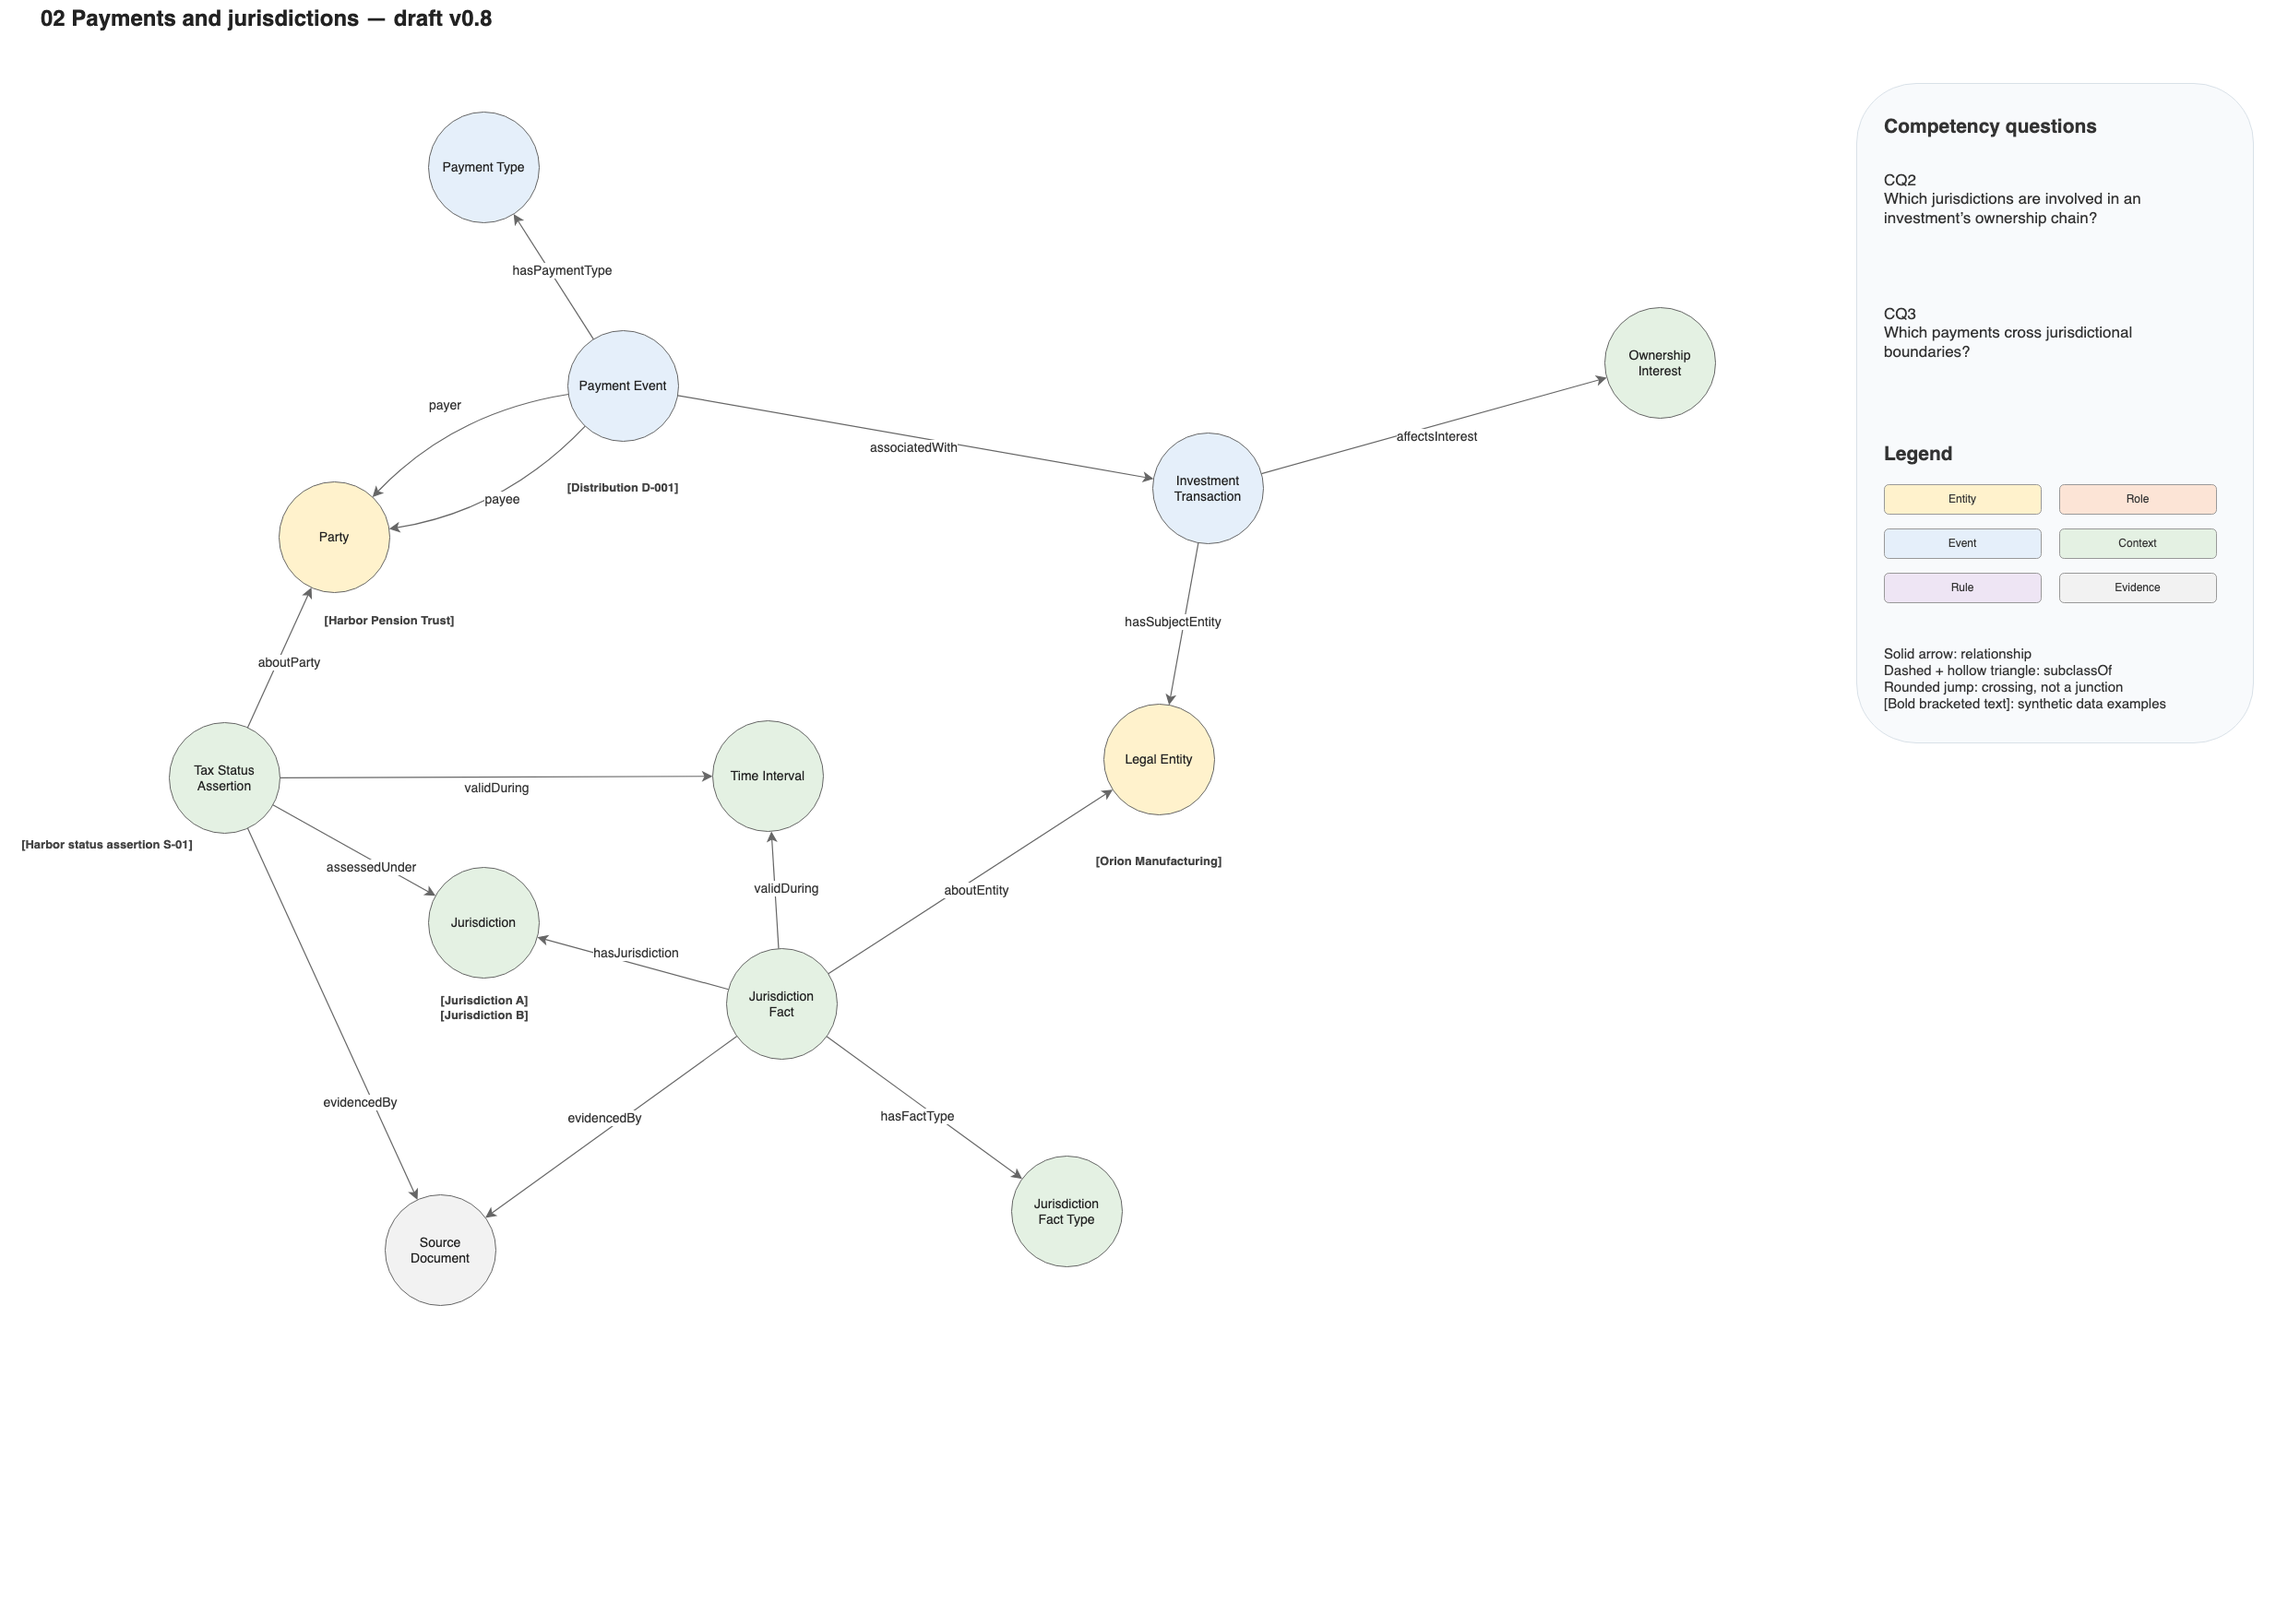
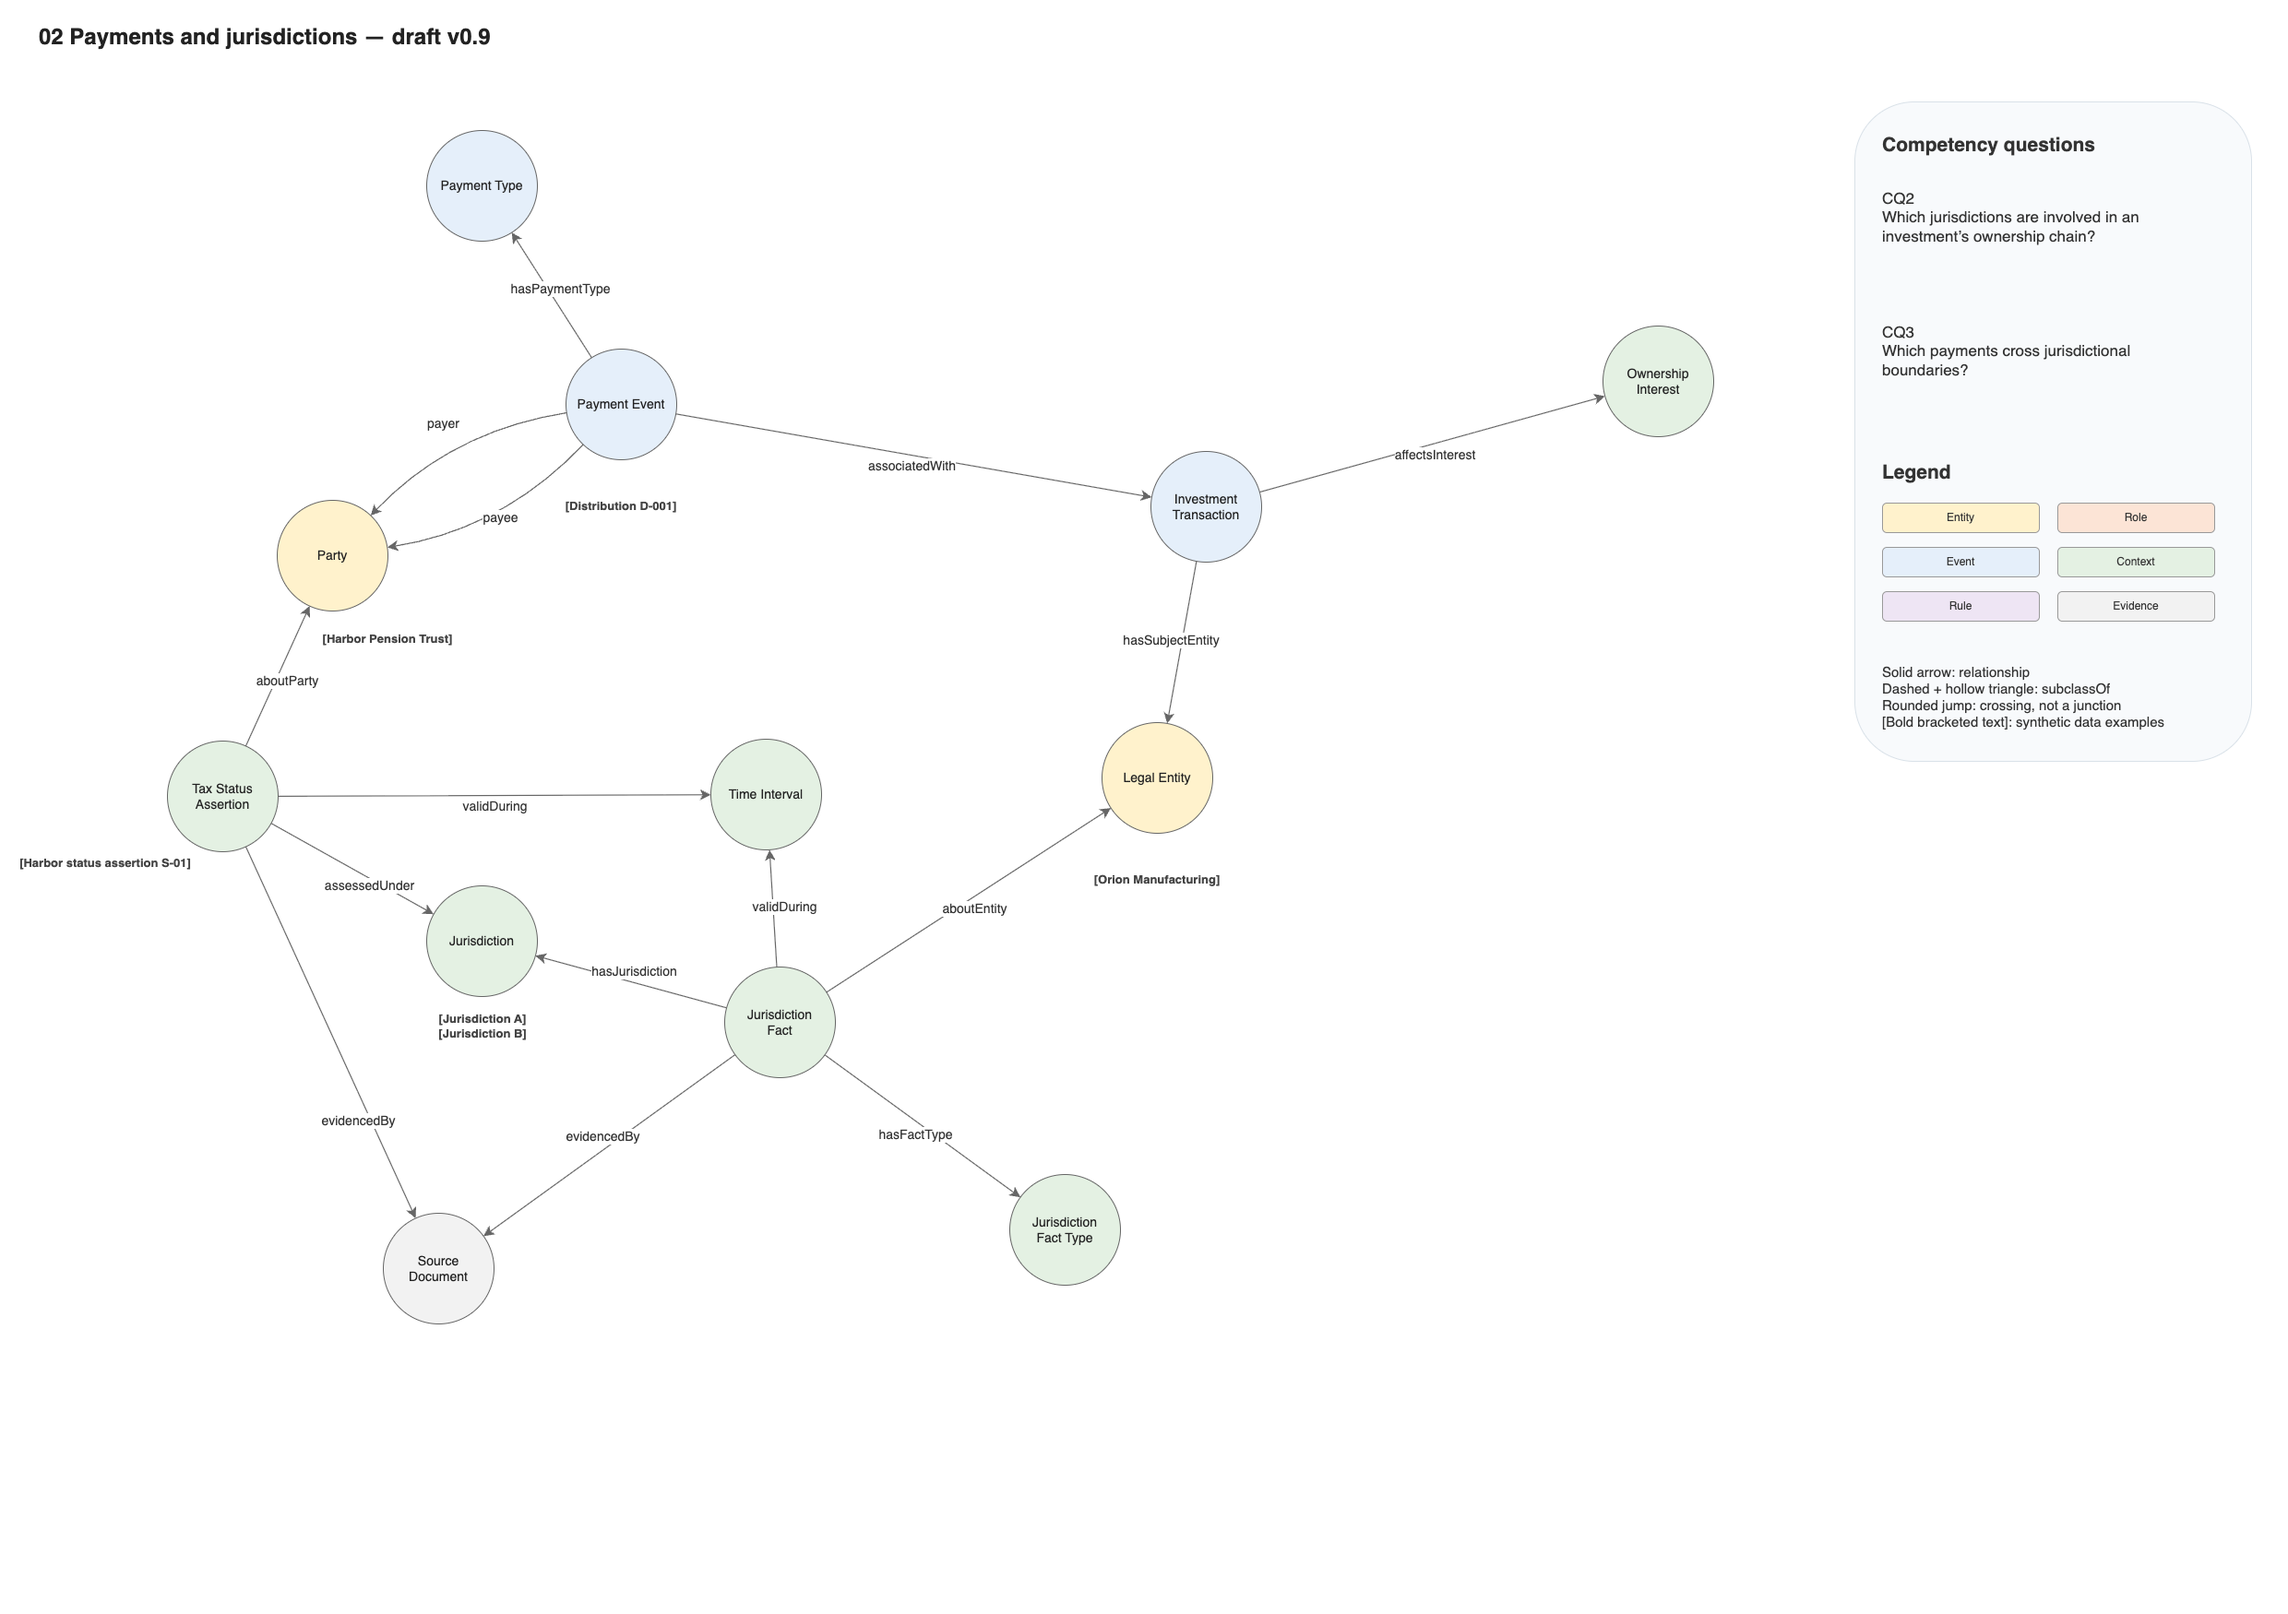
Bring the diagram to v0.9: Beneficial Owner and heldThrough
Adds Beneficial Owner (a kind of Party) and the heldThrough relationship on
Ownership Interest to page 01 and the overview, sets every page title to
v0.9 and re-renders the six PNGs.

diff --git a/model/README.md b/model/README.md
@@ -4,7 +4,7 @@ Open `xb-pei-model.drawio` in diagrams.net/draw.io. It contains an overview page
 
 ## Diagrams
 
-PNG renderings of each page are in `diagrams/`, for viewing on GitHub. The Draw.io file is the source; the images were rendered from draft v0.8 and must be regenerated when the diagram changes.
+PNG renderings of each page are in `diagrams/`, for viewing on GitHub. The Draw.io file is the source; the images were rendered from draft v0.9 and must be regenerated when the diagram changes.
 
 ### 00 Model overview
 
@@ -159,7 +159,7 @@ Checked: XML parses; cell identifiers are unique per page; every connector has a
 
 ## Rule rates, beneficial ownership and stewardship in v0.9
 
-These changes are in the Turtle only. **The diagram is still at v0.8**: Beneficial Owner (a kind of Party) and `heldThrough` (Ownership Interest to Ownership Interest) are structural and are not yet on page 01 or the overview.
+Two of these changes are structural and are on the diagram: Beneficial Owner, a kind of Party, and `heldThrough`, from Ownership Interest to itself. Both are on page `01 Ownership and roles` and on the overview. The rest are attributes and annotations, which the diagram does not show. The model now has 38 concepts and 78 connectors (68 relationships and 10 subclass links).
 
 | Addition | Kind | Meaning |
 |---|---|---|
@@ -177,16 +177,18 @@ Decisions proposed for review:
 - Stewardship and status are kept in `xb-pei-governance.ttl`, one line per term, so they can change without touching definitions. Terms of pages 01 and 02, with the shared attributes, datatypes and their code lists, are `reviewed`; page 03, pages 04 and 05 and the v0.9 additions are `proposed`. None is `released`. The stewards are the synthetic teams named in the business requirements.
 - Open: the ontology has no term for the treaty a certification claims under, its limitation-on-benefits category, the treaty partner of a rule version, or the party a missing-fact finding concerns. The source systems hold all four; the mapping files list them as unmapped.
 
-Checked: both Turtle files parse with rdflib; every one of the 179 terms has a steward and a status. Not run through an OWL reasoner, so the Beneficial Owner definition is untested by inference.
+Layout: the existing positions on both pages were kept. Beneficial Owner was not placed by a force-directed pass. On page 01 it was placed by hand between Legal Entity and Ownership Interest. On the overview it was placed by a search for the position near Party with the most clearance from circles, connectors and label midpoints; the best position found has about 14 units of clearance. `heldThrough` is drawn as a curved loop, since a connector from a concept to itself cannot be straight. No example note was added for Beneficial Owner, which no competency question names.
+
+Checked: both Turtle files parse with rdflib; every one of the 179 terms has a steward and a status. The Draw.io XML parses; cell identifiers are unique per page; every connector has a name and existing endpoints; the overview equals the union of pages 01–05; the overview's concepts, relationship names and subclass links equal the Turtle's classes, object properties and subclass axioms. All six pages were rendered again with the diagrams.net viewer. Page 01 and the changed part of the overview were inspected: page 01 is clean; on the overview Beneficial Owner sits close to Ownership Interest and the `aboutParty` label touches its edge. Pages 02–05 changed only in the version in their titles and were compared with the earlier images for position, not inspected again. Not run through an OWL reasoner, so the Beneficial Owner definition is untested by inference.
 
 ## Formal ontology
 
-`xb-pei-model.ttl` is the OWL 2 counterpart of the diagram, plus the v0.9 additions above: 38 classes, 60 relationships (as object properties) and 10 subclass links, against 37, 59 and 9 on `00 Model overview`, plus 52 data properties, three restricted datatypes and five SKOS code lists for role, jurisdiction-fact, payment, certification and income types. The namespace `https://w3id.org/xb-pei/ontology#` is a placeholder and is not registered.
+`xb-pei-model.ttl` is the OWL 2 counterpart of the diagram: the same 38 classes, 60 relationships (as object properties) and 10 subclass links as `00 Model overview`, plus 52 data properties, three restricted datatypes and five SKOS code lists for role, jurisdiction-fact, payment, certification and income types. The namespace `https://w3id.org/xb-pei/ontology#` is a placeholder and is not registered.
 
 Reused vocabularies: OWL-Time and DCAT for periods (`TimeInterval` is a `time:ProperInterval` and `dcterms:PeriodOfTime`, with `dcat:startDate` and `dcat:endDate`), PROV-O and DCAT for evidence (`SourceDocument`, `AuthoritySource`), SKOS for code lists, Dublin Core and VANN for ontology metadata. External terms are declared, not imported.
 
 `xb-pei-model.jsonld` is generated from the two Turtle files by `solution/xbpei/build_model.py` and is not edited by hand.
 
-The file parses as Turtle and, at v0.8, was checked against the overview page for matching classes, relationships and subclass links. It has not been run through an OWL reasoner or profile checker.
+The file parses as Turtle and was checked against the overview page for matching classes, relationships and subclass links. It has not been run through an OWL reasoner or profile checker.
 
 Two axioms go beyond the diagram: `LegalEntity` is disjoint with `NaturalPerson`, and several relationships are functional (for example one holder and one entity per ownership interest, one payer and one payee per payment).

diff --git a/README.md b/README.md
@@ -21,7 +21,7 @@ Both share one domain background and one ontology.
 | [`business/domain-glossary.md`](business/domain-glossary.md) | Acronyms |
 | `business/lookthrough-product/` | LookThrough business requirements |
 | `business/clearance-product/` | Clearance business requirements and three operating procedures (`wf1`–`wf3`), each with controls and scenarios |
-| [`model/`](model/README.md) | The ontology, draft v0.9: OWL Turtle, stewardship and status per term, a generated JSON-LD form, the Draw.io diagram (overview and five detail pages, still at v0.8), and a README with decisions, traceability and checks |
+| [`model/`](model/README.md) | The ontology, draft v0.9: OWL Turtle, stewardship and status per term, a generated JSON-LD form, the Draw.io diagram (overview and five detail pages) with PNG renderings, and a README with decisions, traceability and checks |
 | `solution/` | The prototype: emulated source systems and gold dataset, the OKF bundle, the graph projection, the agent runner and the run report |
 | [`AGENTS.md`](AGENTS.md) | Modelling and Draw.io conventions for AI agents working in this repository |
 
